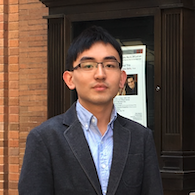
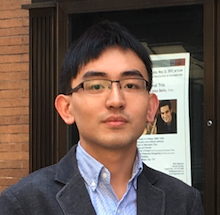
deploy: bluejw/academic-kickstart@d9e3acaad2d8be829843925316b13188a49f4799

diff --git a/post/getting-started/index.html b/post/getting-started/index.html
@@ -238,7 +238,7 @@ The template is mobile first with a responsive design to ensure that your site l
 </ul>
 </div>
 <div class="media author-card content-widget-hr">
-<a href=https://example.com/><img class="avatar mr-3 avatar-circle" src=/authors/admin/avatar_hudb8211c8f0bc8d0e00fb2beeeb9a4cd9_60514_270x270_fill_q75_lanczos_center.jpg alt="Wei Jin"></a>
+<a href=https://example.com/><img class="avatar mr-3 avatar-circle" src=/authors/admin/avatar_huf5c4b75083e2d4506d7d1a8c923cc328_93703_270x270_fill_q75_lanczos_center.jpg alt="Wei Jin"></a>
 <div class=media-body>
 <h5 class=card-title><a href=https://example.com/>Wei Jin</a></h5>
 <h6 class=card-subtitle>Ph.D. Candidate of Applied Mathematcis and Statistics</h6>

diff --git a/publication/example/index.html b/publication/example/index.html
@@ -224,7 +224,7 @@ Create your slides in Markdown - click the <em>Slides</em> button to check out t
 </ul>
 </div>
 <div class="media author-card content-widget-hr">
-<a href=https://example.com/><img class="avatar mr-3 avatar-circle" src=/authors/admin/avatar_hudb8211c8f0bc8d0e00fb2beeeb9a4cd9_60514_270x270_fill_q75_lanczos_center.jpg alt="Wei Jin"></a>
+<a href=https://example.com/><img class="avatar mr-3 avatar-circle" src=/authors/admin/avatar_huf5c4b75083e2d4506d7d1a8c923cc328_93703_270x270_fill_q75_lanczos_center.jpg alt="Wei Jin"></a>
 <div class=media-body>
 <h5 class=card-title><a href=https://example.com/>Wei Jin</a></h5>
 <h6 class=card-subtitle>Ph.D. Candidate of Applied Mathematcis and Statistics</h6>

diff --git a/talk/example-talk/index.html b/talk/example-talk/index.html
@@ -231,7 +231,7 @@ Click on the <strong>Slides</strong> button above to view the built-in slides fe
 </ul>
 </div>
 <div class="media author-card content-widget-hr">
-<a href=https://example.com/><img class="avatar mr-3 avatar-circle" src=/authors/admin/avatar_hudb8211c8f0bc8d0e00fb2beeeb9a4cd9_60514_270x270_fill_q75_lanczos_center.jpg alt="Wei Jin"></a>
+<a href=https://example.com/><img class="avatar mr-3 avatar-circle" src=/authors/admin/avatar_huf5c4b75083e2d4506d7d1a8c923cc328_93703_270x270_fill_q75_lanczos_center.jpg alt="Wei Jin"></a>
 <div class=media-body>
 <h5 class=card-title><a href=https://example.com/>Wei Jin</a></h5>
 <h6 class=card-subtitle>Ph.D. Candidate of Applied Mathematcis and Statistics</h6>

diff --git a/project/example/index.html b/project/example/index.html
@@ -183,7 +183,7 @@ Follow
 </ul>
 </div>
 <div class="media author-card content-widget-hr">
-<a href=https://example.com/><img class="avatar mr-3 avatar-circle" src=/authors/admin/avatar_hudb8211c8f0bc8d0e00fb2beeeb9a4cd9_60514_270x270_fill_q75_lanczos_center.jpg alt="Wei Jin"></a>
+<a href=https://example.com/><img class="avatar mr-3 avatar-circle" src=/authors/admin/avatar_huf5c4b75083e2d4506d7d1a8c923cc328_93703_270x270_fill_q75_lanczos_center.jpg alt="Wei Jin"></a>
 <div class=media-body>
 <h5 class=card-title><a href=https://example.com/>Wei Jin</a></h5>
 <h6 class=card-subtitle>Ph.D. Candidate of Applied Mathematcis and Statistics</h6>

diff --git a/index.html b/index.html
@@ -121,7 +121,7 @@
 <div class=row>
 <div class="col-12 col-lg-4">
 <div id=profile>
-<img class="avatar avatar-circle" src=/authors/admin/avatar_hudb8211c8f0bc8d0e00fb2beeeb9a4cd9_60514_270x270_fill_q75_lanczos_center.jpg alt="Wei Jin">
+<img class="avatar avatar-circle" src=/authors/admin/avatar_huf5c4b75083e2d4506d7d1a8c923cc328_93703_270x270_fill_q75_lanczos_center.jpg alt="Wei Jin">
 <div class=portrait-title>
 <h2>Wei Jin</h2>
 <h3>Ph.D. Candidate of Applied Mathematcis and Statistics</h3>
